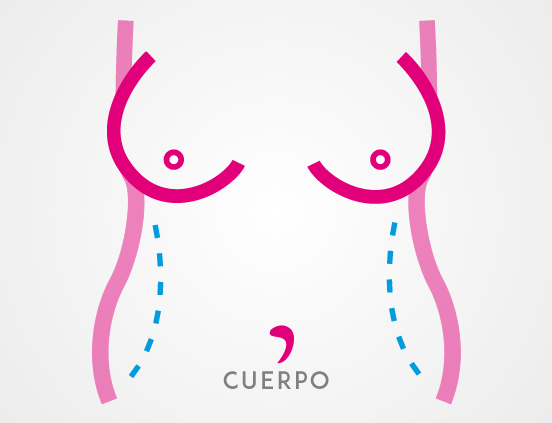
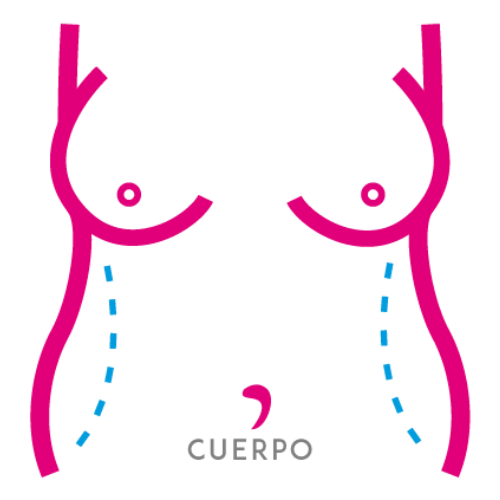
Cambios2

diff --git a/Secciones/Home.html b/Secciones/Home.html
@@ -131,7 +131,7 @@
         <div class="blog-container">
             <div class="blog-card fade-in-card">
                 <div class="blog-image">
-                    <img src="../Imagenes/blog1.jpg" alt="Blog 1">
+                    <img src="../Imagenes/ELAMOR_DEPAREJA.jpeg" alt="Blog 1">
                 </div>
                 <div class="blog-content">
                     <h3>EL AMOR DE PAREJA</h3>
@@ -169,14 +169,14 @@
         <div class="services-container">
             <div class="service-item fade-in-card" onclick="window.location.href='Rostro.html'">
                 <div class="service-image">
-                    <img src="../Imagenes/cirugia_facial_home.png" alt="Rostro">
+                    <img src="../Imagenes/cirugia_facial_cali.png" alt="Rostro">
                 </div>
                 <h3>ROSTRO</h3>
             </div>
             
             <div class="service-item fade-in-card" onclick="window.location.href='Cuerpo.html'">
                 <div class="service-image">
-                    <img src="../Imagenes/cirugia_corporal_home.png" alt="Cuerpo">
+                    <img src="../Imagenes/cirugia_corporal_cali.png" alt="Cuerpo">
                 </div>
                 <h3>CUERPO</h3>
             </div>

diff --git a/Secciones/Contacto.html b/Secciones/Contacto.html
@@ -101,7 +101,7 @@
             
             <!-- Imagen del Local -->
             <div class="local-image-container fade-in-card">
-                <img src="https://www.yumbo.gov.co/info/yumbo_se/media/galeria210.jpg" alt="Eva Grupo Médico - Local">
+                <img src="../Imagenes/fachada_eva.png" alt="Eva Grupo Médico - Local">
             </div>
             
             <!-- Información del Local -->
